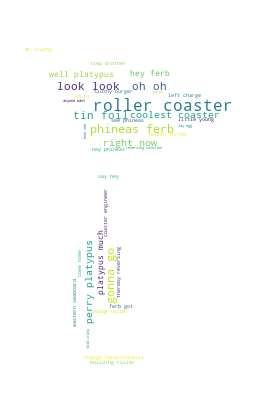
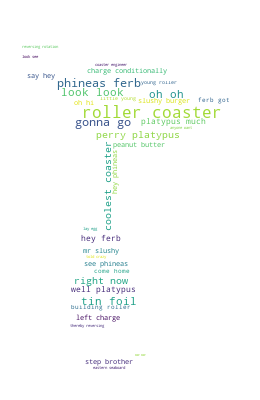
Remove max word limit

Changed region(s): [[0.0923, 0.15, 0.8923, 0.93], [0.0923, 0.09, 0.2154, 0.15]]

diff --git a/word_cloud.py b/word_cloud.py
@@ -22,7 +22,7 @@ def generate_cloud(words):
 def generate_mask_word_cloud(words, mask):
     char_mask = np.array(Image.open(mask, 'r').convert('RGB')) 
    
-    wc = WordCloud(background_color="white", max_words=200, width=400, height=400, mask=char_mask)
+    wc = WordCloud(background_color="white", width=400, height=400, mask=char_mask)
     wc.generate(words)
     wc.to_file('mask_word_cloud.png')
 
